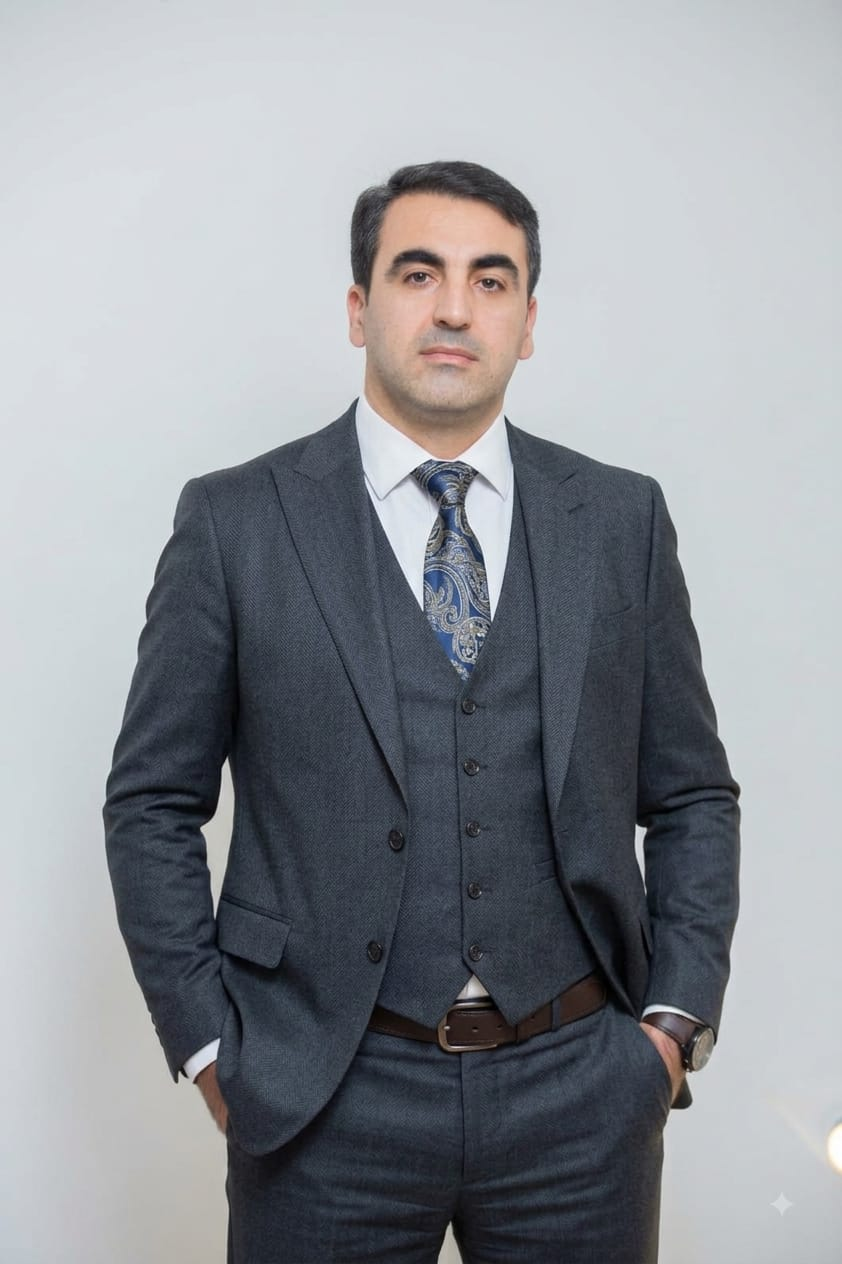
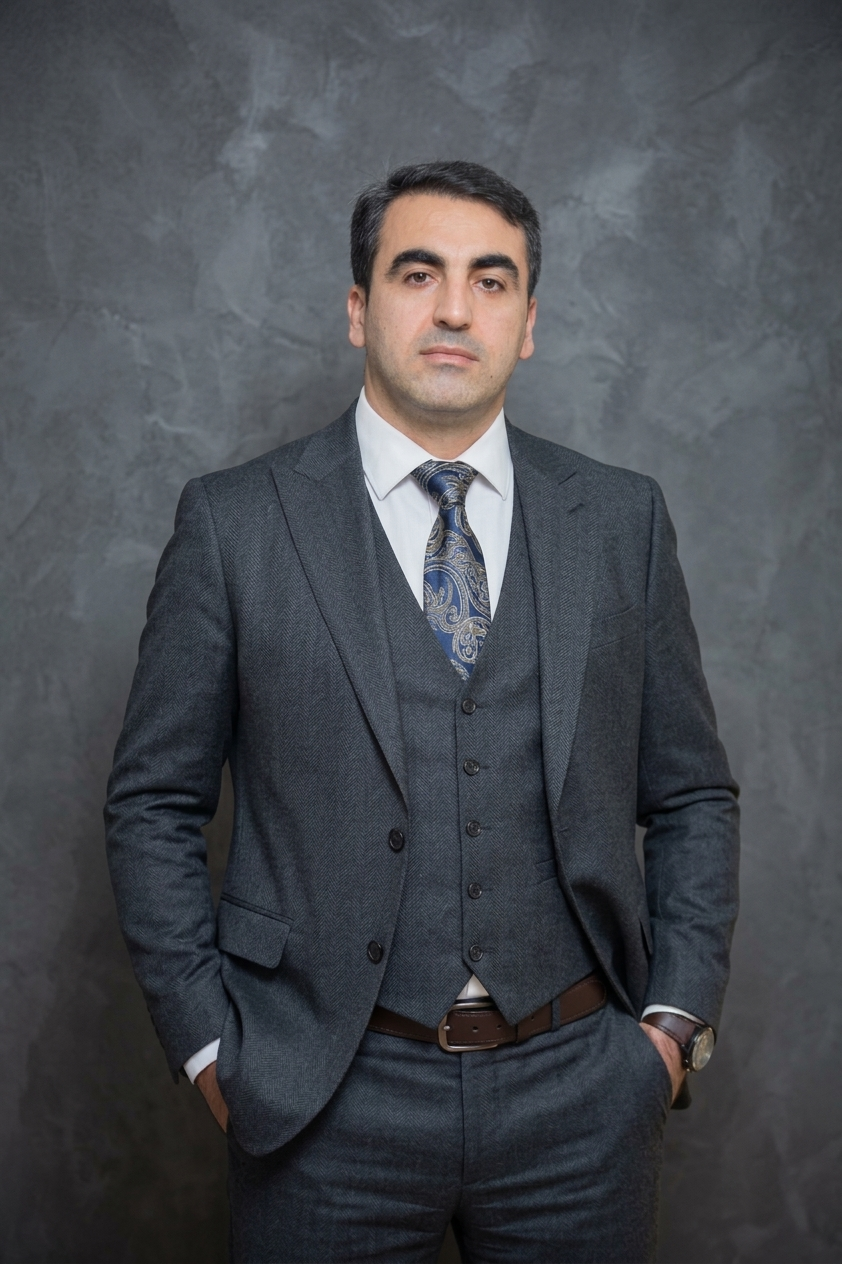
Replace teacher portrait; taller exam-card cover so artwork carries the card
- public/teacher.jpg: new full portrait; hero framing nudged to center 22% so face +
  torso fill the frame
- ExamCard: cover height h-48/sm:h-52 so the cover picture dominates the card

diff --git a/src/components/ExamCard.jsx b/src/components/ExamCard.jsx
@@ -90,8 +90,8 @@ const ExamCard = ({ exam, onChanged, publicView = false }) => {
       onClick={openCard}
       className="group flex h-full cursor-pointer flex-col overflow-hidden rounded-2xl border border-line bg-surface shadow-soft ring-1 ring-transparent transition-all duration-200 ease-out-quint hover:-translate-y-1 hover:border-primary/30 hover:shadow-lift hover:ring-primary/10"
     >
-      {/* Cover banner with status + price overlaid */}
-      <div className="relative h-40 w-full shrink-0 overflow-hidden sm:h-44">
+      {/* Cover banner with status + price overlaid — tall so the artwork carries the card */}
+      <div className="relative h-48 w-full shrink-0 overflow-hidden sm:h-52">
         {exam.coverImage ? (
           <img
             src={exam.coverImage}

diff --git a/src/components/Hero.jsx b/src/components/Hero.jsx
@@ -103,7 +103,7 @@ const Hero = () => (
           <img
             src="/teacher.jpg"
             alt="Əliyar Nuriyev — riyaziyyat müəllimi"
-            className="aspect-[4/5] w-full object-cover object-[center_18%]"
+            className="aspect-[4/5] w-full object-cover object-[center_22%]"
           />
           <figcaption className="absolute inset-x-0 bottom-0 bg-gradient-to-t from-black/75 via-black/25 to-transparent p-4 pt-14">
             <p className="font-display text-lg font-bold text-white">Əliyar Nuriyev</p>
